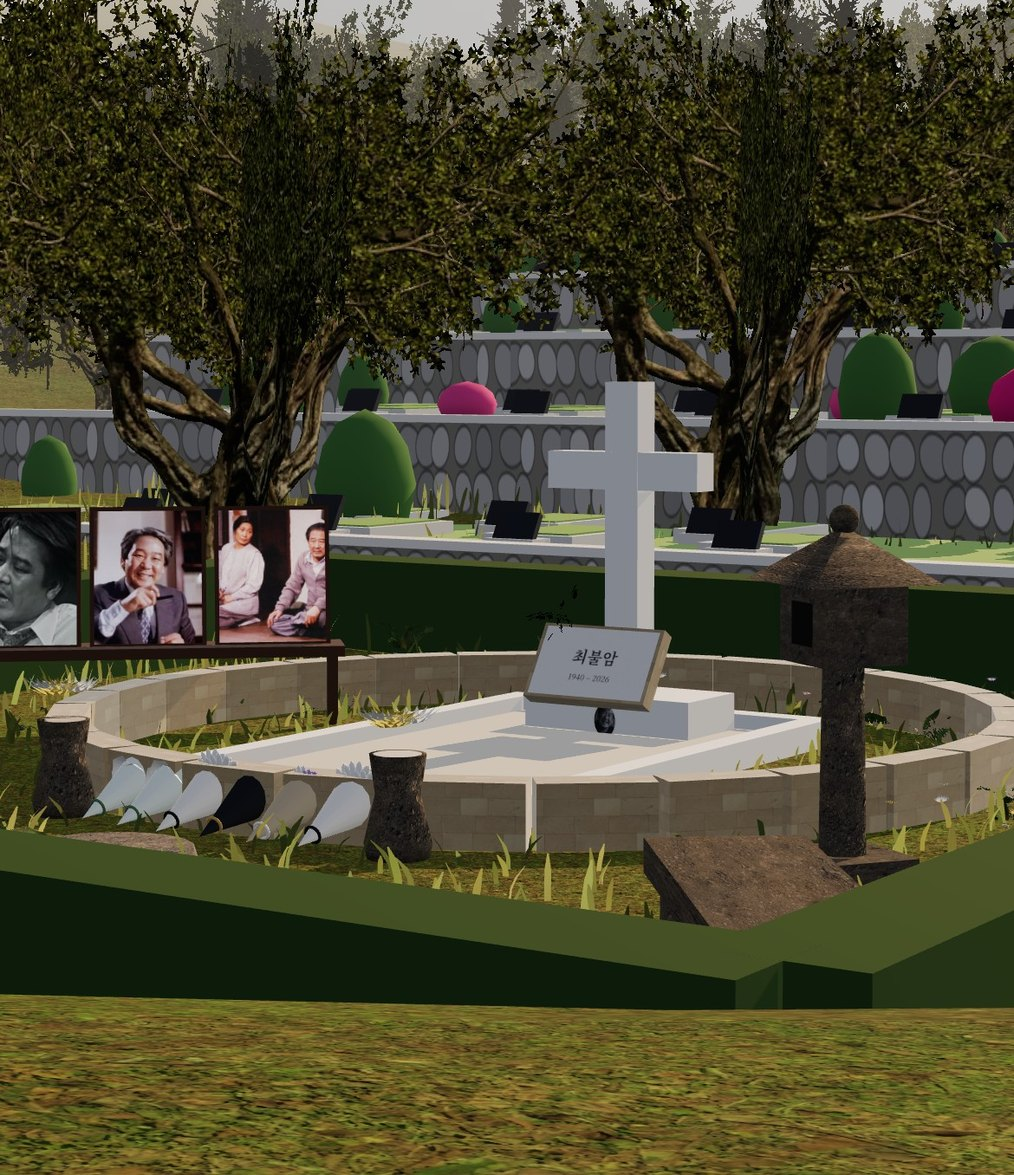
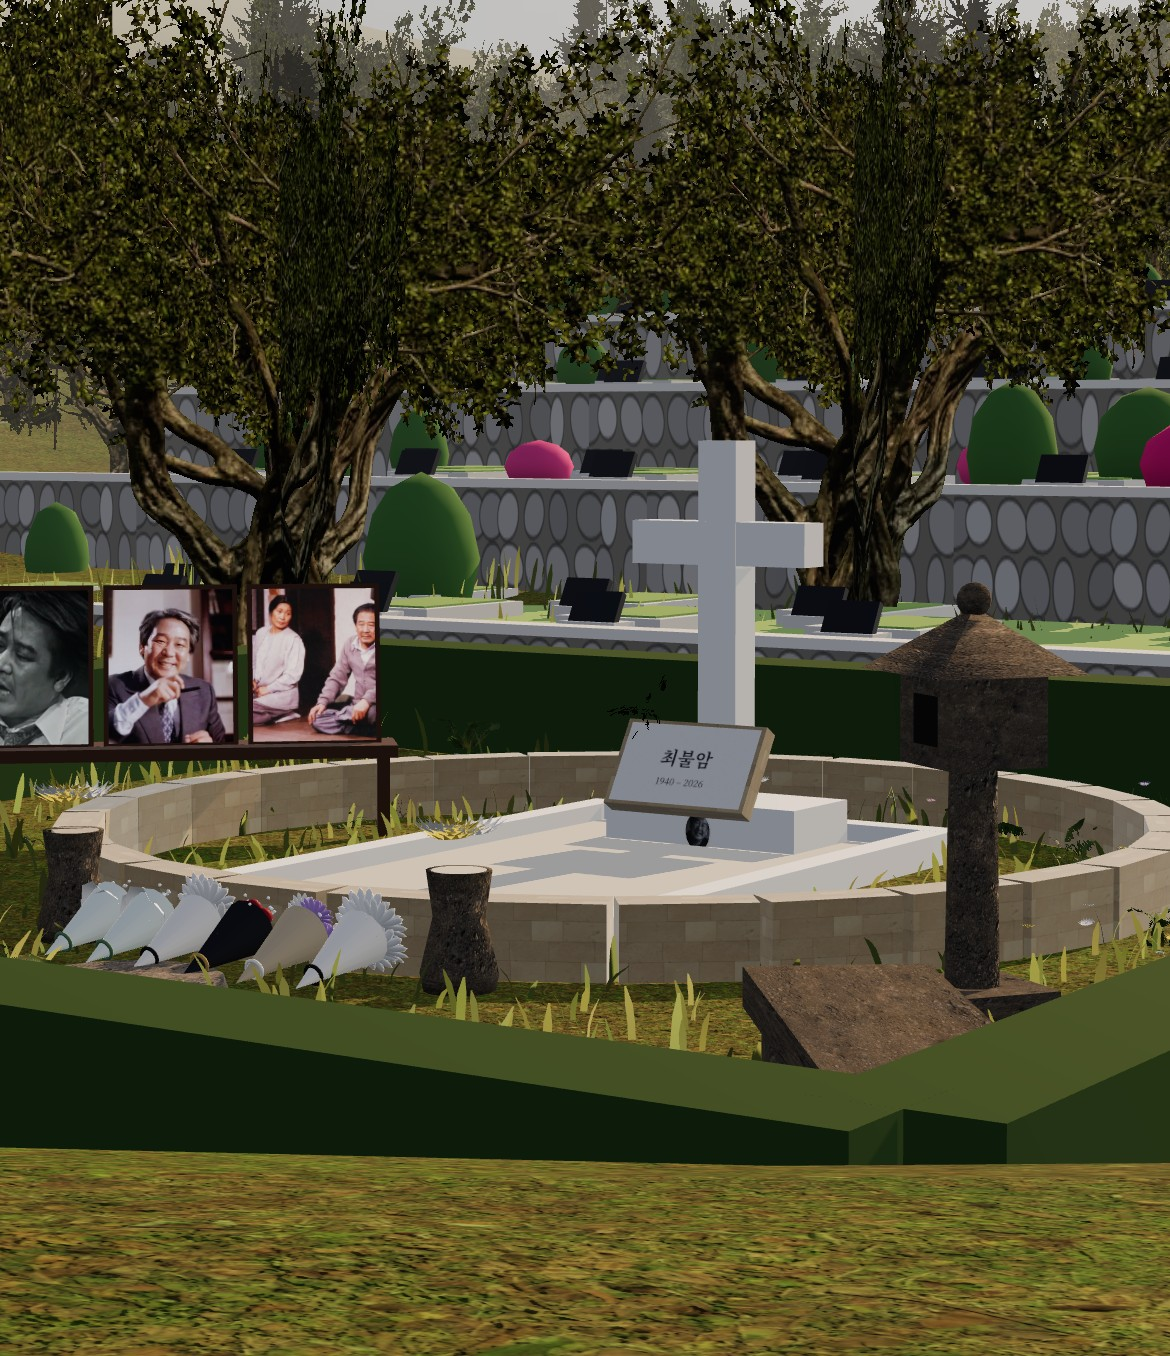
모시는 분들 장지 사진: 꽃다발이 둘레석에 걸치지 않게 다시 찍음
Claude-Session: https://claude.ai/code/session_01WvjGqiVXugAiAGwkNjewY5

diff --git a/index.html b/index.html
@@ -270,7 +270,7 @@ box.innerHTML = FIGS.map((f) => `
   <article class="fig" data-view="altar">
     <div class="shot">
       <img class="altar" src="img/fig/${f.code}-altar.jpg?v=3" alt="${f.name} 님 공개 분향소" loading="lazy" width="390" height="452">
-      <img class="grave" src="img/fig/${f.code}-grave.jpg?v=5" alt="${f.name} 님 공개 장지" loading="lazy" width="390" height="452">
+      <img class="grave" src="img/fig/${f.code}-grave.jpg?v=6" alt="${f.name} 님 공개 장지" loading="lazy" width="390" height="452">
       <div class="toggle" role="group" aria-label="${f.name} 님 화면 고르기">
         <button type="button" data-v="altar" aria-pressed="true">분향소</button>
         <button type="button" data-v="grave" aria-pressed="false">장지</button>
